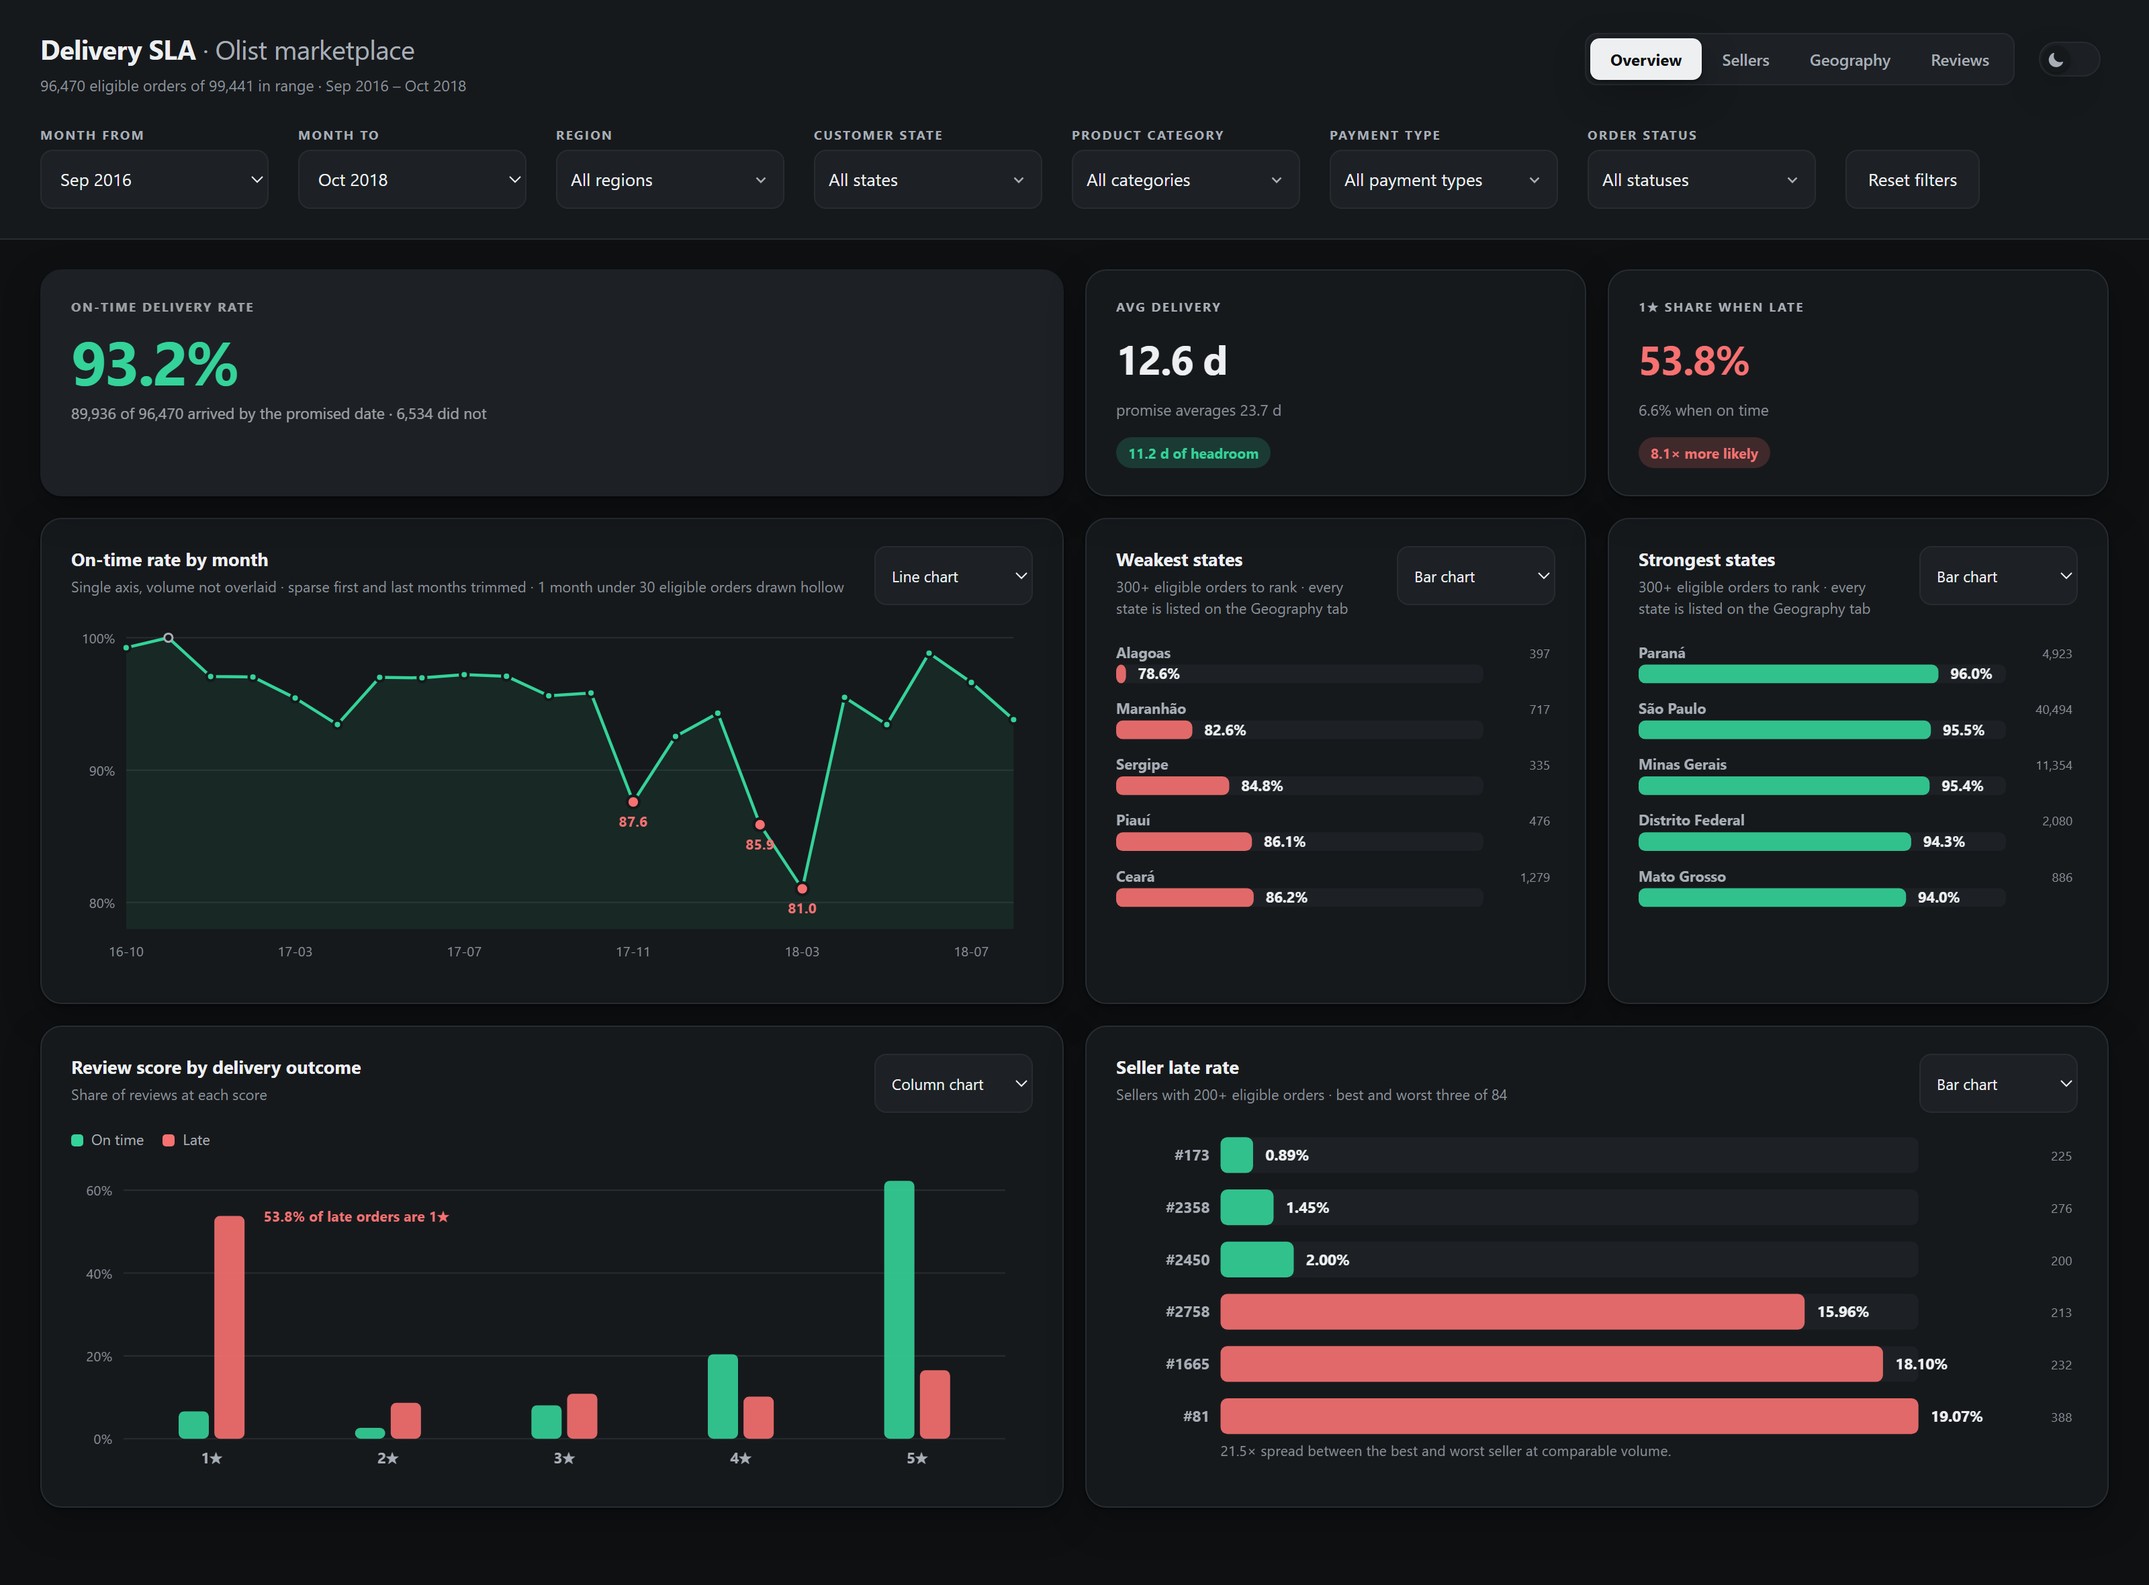
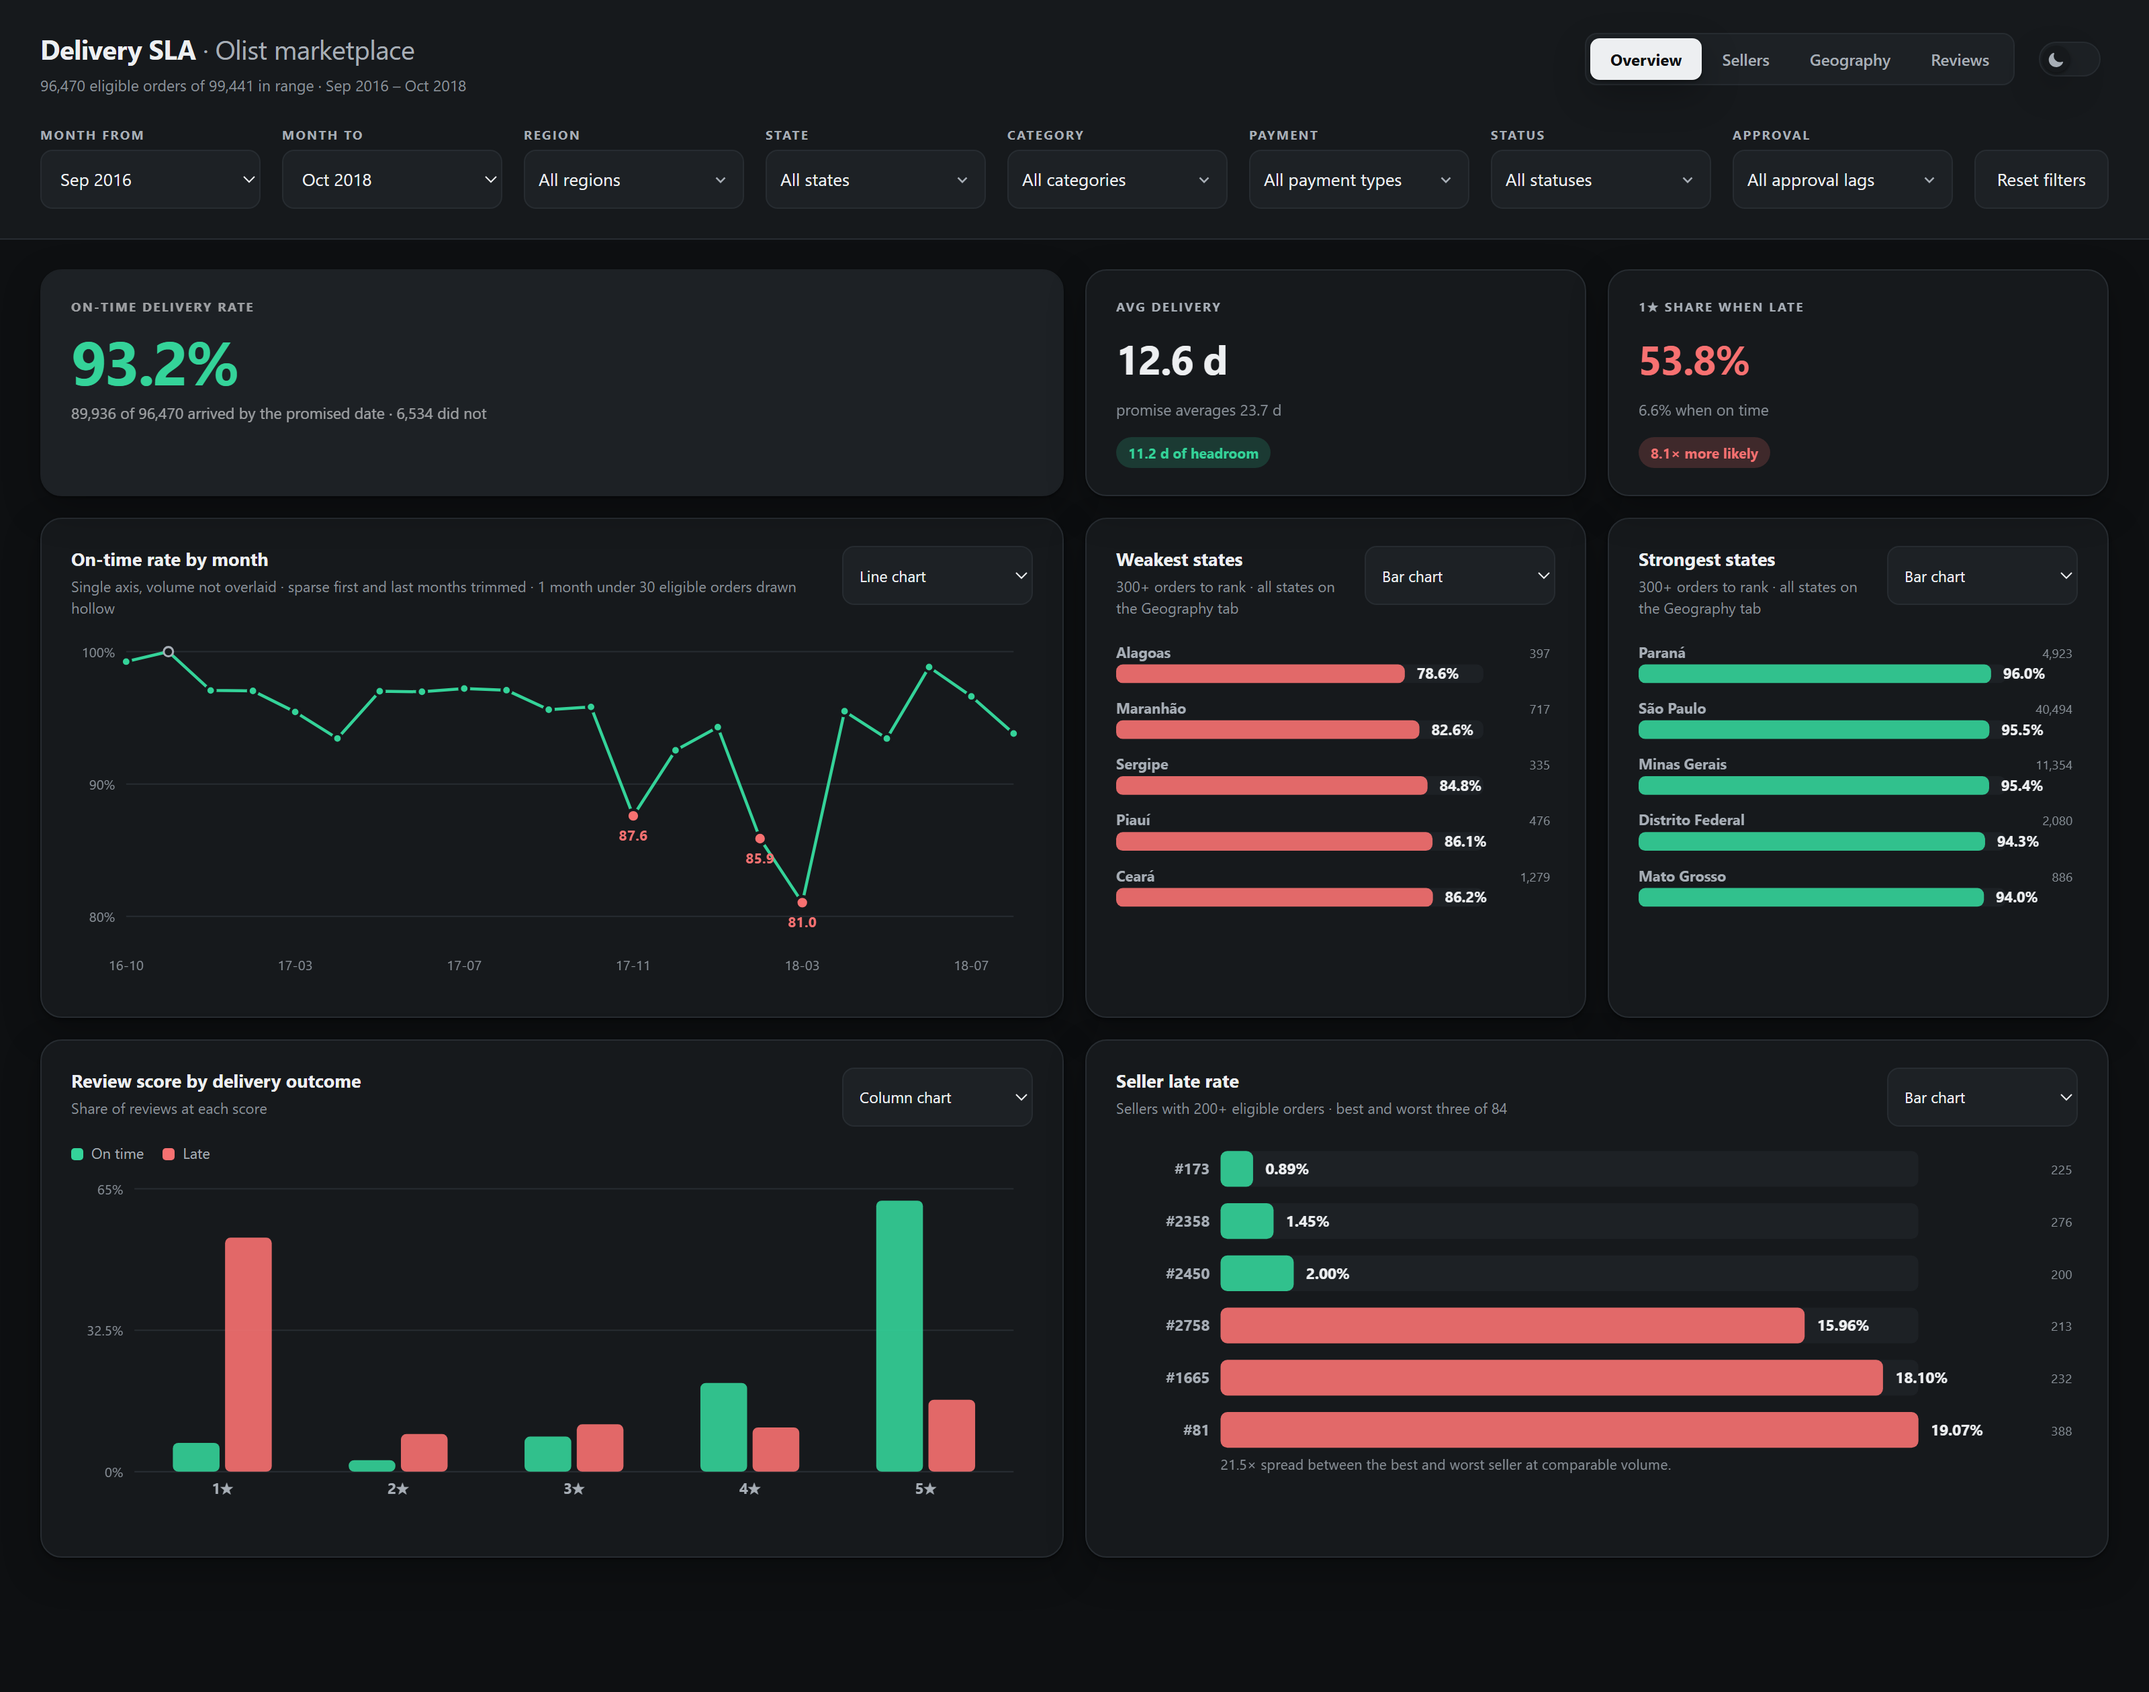
Add dashboard screenshots to the README

diff --git a/screenshots/README.md b/screenshots/README.md
@@ -6,11 +6,12 @@ Captures of the HTML dashboard in `dashboard/`.
 |---|---|
 | `dashboard-overview-dark.png` | Overview tab, dark theme, no filters applied |
 | `dashboard-overview-light.png` | Overview tab, light theme |
-| `dashboard-sellers-dark.png` | Sellers tab — seller late rate, approval lag, cross-state shipping |
-| `dashboard-geography-dark.png` | Geography tab — state and region performance |
 
-Regenerate them by opening `dashboard/index.html` and capturing at 1600px wide or more, so the
-KPI card labels and the sample sizes stay legible.
+The Sellers, Geography and Reviews tabs are not captured here. Open `dashboard/index.html` and
+switch tabs to see them, or add your own captures named `dashboard-sellers-dark.png`,
+`dashboard-geography-dark.png` and `dashboard-reviews-dark.png`.
+
+Capture at 1600px wide or more so the KPI card labels and the sample sizes stay legible.
 
 The Power BI report is assembled from `powerbi/` — see `powerbi/assembly_guide.md`. Add captures of
 it here once built, named `powerbi-page1.png`, `powerbi-page2.png`, `powerbi-page3.png` to match the

diff --git a/README.md b/README.md
@@ -177,6 +177,19 @@ readable without a Kaggle account, and they inherit the same licence terms.
 - **Two years ending October 2018**, thin before 2017 and partial at both ends, so no year-over-year
   comparison is possible for the February–March window that most needs one.
 
+## Screenshots
+
+The dashboard, dark theme — Overview tab, no filters applied:
+
+![Dashboard, dark theme](screenshots/dashboard-overview-dark.png)
+
+The same view in light theme:
+
+![Dashboard, light theme](screenshots/dashboard-overview-light.png)
+
+Four tabs — Overview, Sellers, Geography, Reviews — each with multi-select filters, per-card chart
+and table views, and filter state carried in the URL so a cut can be shared as a link.
+
 ## Documentation
 
 | Document | For |
